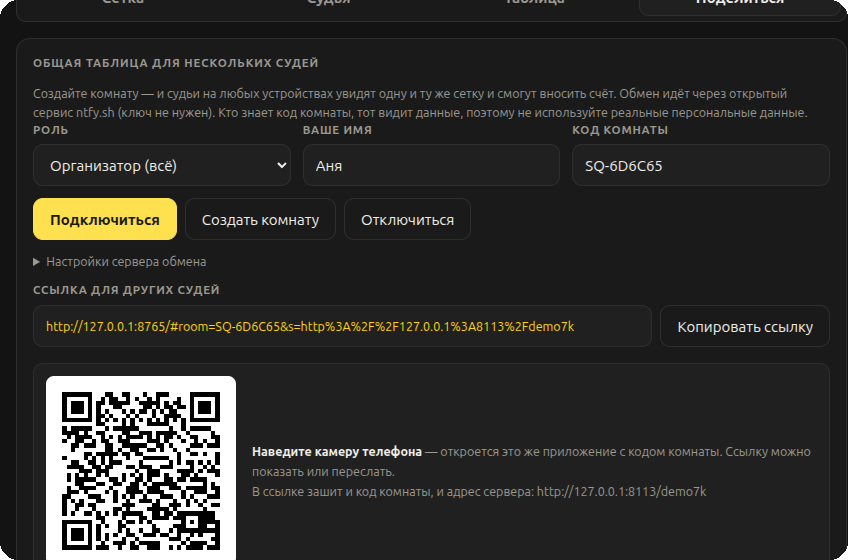
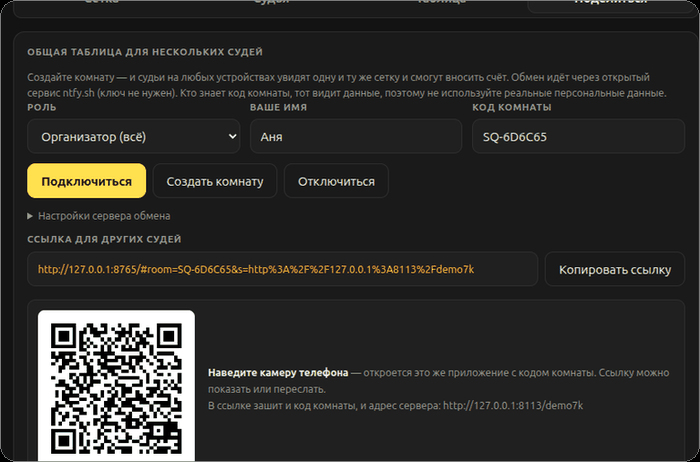
Иллюстрации компактнее и с заметной рамкой; в README вернулась ссылка на Telegram

diff --git a/README.md b/README.md
@@ -20,4 +20,6 @@
 
 **Таблица** — победы, забитые и пропущенные очки, разница, соревновательный режим. **Несколько судей** — одна сетка на всех устройствах по коду комнаты или QR-коду.
 
-Данные комнаты видны тем, кто знает код, — не вводите персональные данные. Без комнаты всё хранится только в браузере. Ошибки и идеи — issue в этом репозитории.
+Данные комнаты видны тем, кто знает код, — не вводите персональные данные. Без комнаты всё хранится только в браузере.
+
+Ошибки, вопросы и идеи — [Telegram](https://t.me/sailofsoul) или issue в этом репозитории.
